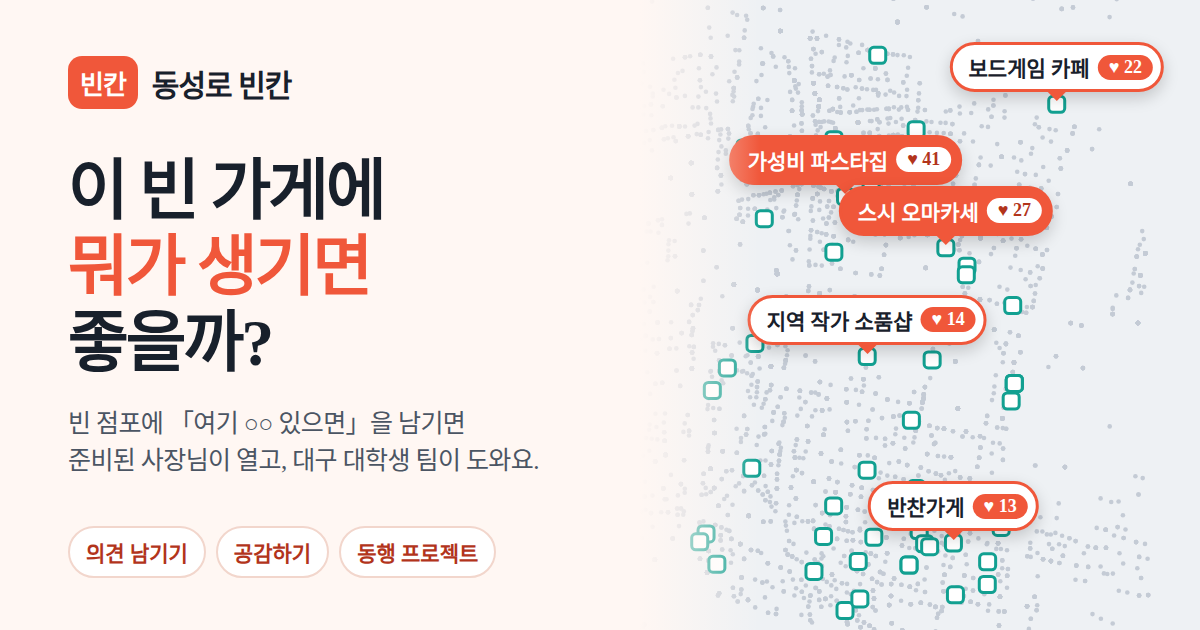
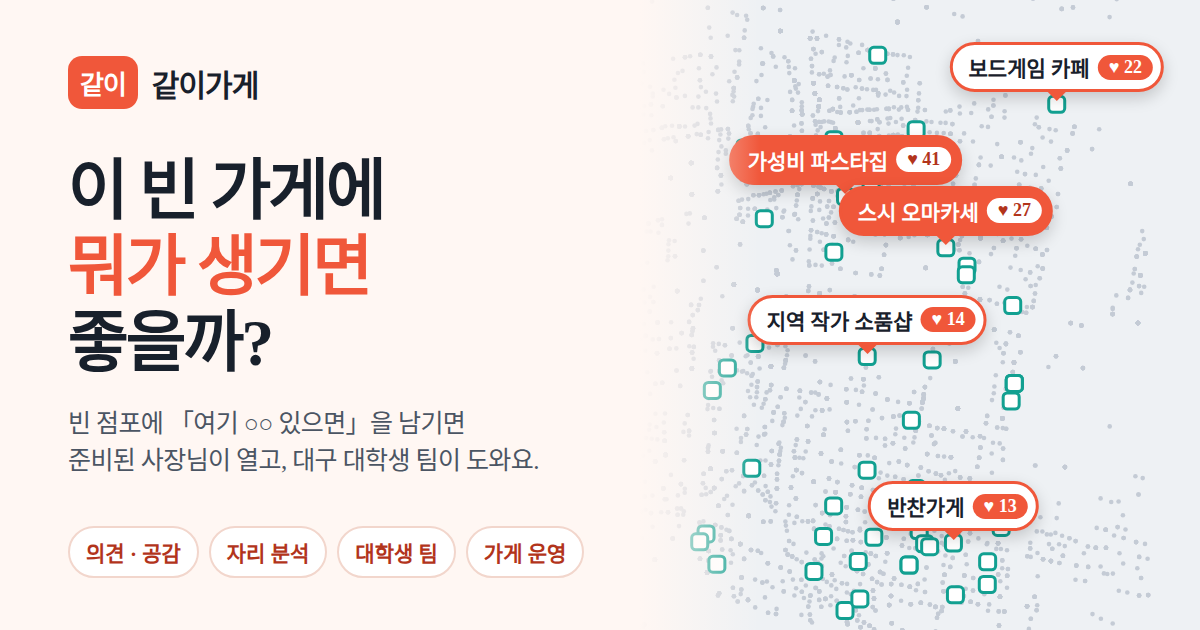
같이가게: 서비스 이름 「동성로 빈칸」 → 「같이가게」(의견에서 개업, 운영까지), 도우미 「같이가게 도우미」, 홈 썸네일 · 공유 미리보기. 「빈칸」은 빈 점포 용어로 유지

Changed region(s): [[0.0925, 0.8143, 0.4933, 0.9349], [0.0617, 0.0905, 0.2467, 0.181]]

diff --git a/public/drafthon/binkan/app.js b/public/drafthon/binkan/app.js
@@ -1,4 +1,4 @@
-// 동성로 빈칸 — 첫 화면(지도) · 빈칸 상세 · 의견 남기기 · 공감 · 로그인 · 회원가입 · 검색 · 입구 · 지원 안내 띠 · 오픈 이벤트
+// 같이가게 — 첫 화면(지도) · 빈칸 상세 · 의견 남기기 · 공감 · 로그인 · 회원가입 · 검색 · 입구 · 지원 안내 띠 · 오픈 이벤트
 // 저장은 이 브라우저(localStorage)에만. 백엔드가 붙으면 store.* 만 API로 바꾸면 된다(청사진 §7 API 표).
 (function () {
   const M = window.MAPDATA, SEED = window.SEED, SUP = window.SUP;
@@ -270,7 +270,7 @@
         <dt>직전 업종</dt><dd>${esc(s.was)} <small>(같은 업종이 다시 들어와도 되는지는 상담에서)</small></dd>
         ${nA ? `<dt>근처 가게 답</dt><dd><b>${nA}곳</b>이 이 빈칸 의견에 답함 <small>(의견은 닫히지 않아요 · 상권 정보로 참고)</small></dd>` : ''}
       </dl>
-      <p class="fine">소진공 상가(상권)정보 ${esc(M.meta.q_now)} 기준 계산. 더 자세한 해석은 오른쪽 아래 빈칸 도우미에게 물어보세요.</p>
+      <p class="fine">소진공 상가(상권)정보 ${esc(M.meta.q_now)} 기준 계산. 더 자세한 해석은 오른쪽 아래 같이가게 도우미에게 물어보세요.</p>
       <button class="cta2" data-act="owner" data-id="${esc(s.id)}">이 자리로 창업 상담 →</button>
     </section>`;
   }
@@ -320,7 +320,7 @@
           <dt>규모</dt><dd>0단계: 빈칸 61곳 중 30곳 이상에 회원 의견이 모이면 → 1단계: 동성로 10곳 [가정] · 학생 40명(4인 × 10팀) · 한 학기 16주.</dd>
           <dt>비용</dt><dd>학생 장학금 월 30만 원 × 4개월 × 40명 = 4,800만 원 [추정]. 사장님 지원금 · 인테리어 · 임대료 일부 · 이벤트는 상권활성화사업 예산과 협의. 사장님 · 시민은 무료.</dd>
           <dt>성과</dt><dd>개업 6개월 영업 유지가 비교군(신청했지만 선정되지 않은 가게)보다 높은지 → 12개월 영업 유지 10곳 중 8곳 이상 [가정] 그리고 비교군보다 높으면 대구로 넓혀요.</dd>
-          <dt>AI가 하는 일</dt><dd>시민 · 사장님 · 학생의 문장을 업종 · 과제 · 전공으로 바꿔 서로 잇는 일(상담 문제 정리 · 과제 초안 · 학생 추천 · 질문 · 의견 묶기 · 답글 초안 · 빈칸 도우미). 숫자 · 거리 · 목록은 사이트가 공공데이터로 계산하고, 선정은 사람(운영단)이 해요.</dd>
+          <dt>AI가 하는 일</dt><dd>시민 · 사장님 · 학생의 문장을 업종 · 과제 · 전공으로 바꿔 서로 잇는 일(상담 문제 정리 · 과제 초안 · 학생 추천 · 질문 · 의견 묶기 · 답글 초안 · 같이가게 도우미). 숫자 · 거리 · 목록은 사이트가 공공데이터로 계산하고, 선정은 사람(운영단)이 해요.</dd>
           <dt>운영단 화면</dt><dd>회원가입 때 「운영단」을 고르면 심사 표 · 추적 표를 볼 수 있어요(본 서비스에서는 초대받은 운영단만).</dd>
         </dl></section>
       <p class="fine">처음 화면의 의견 · 공감 수 · 공고 일부는 서비스 소개를 위해 운영팀이 넣어 둔 것이에요. 운영팀 의견에는 「운영팀」이라고 적혀 있어요.</p>`;
@@ -500,9 +500,9 @@
     const s = SP[w.space], url = SHORT_BASE + (w.seed ? w.id : `${w.space}.${b64(w.title)}.${store.likes(w)}`);
     const place = /^동성로/.test(shortAddr(s)) ? shortAddr(s) : '동성로 ' + shortAddr(s);
     const text = `${place} 빈칸에 「${w.title}」 있으면 좋겠다! 공감 눌러 줘 → ${url}`;
-    lastShare = { title: `「${w.title}」 있으면 좋겠다 — 동성로 빈칸`, text: `${place} 빈칸에 「${w.title}」 있으면 좋겠다! 공감 눌러 줘`, url };
+    lastShare = { title: `「${w.title}」 있으면 좋겠다 — 같이가게`, text: `${place} 빈칸에 「${w.title}」 있으면 좋겠다! 공감 눌러 줘`, url };
     openModal(`<h3>공유 카드</h3>
-      <div class="sharecard"><p class="sk">동성로 빈칸</p><p class="sw">「${esc(w.title)}」</p><p class="sa">📍 ${esc(shortAddr(s))}</p><p class="sl">♥ ${store.likes(w)}${w.seed ? ' · 운영팀 의견' : '명이 공감'}</p></div>
+      <div class="sharecard"><p class="sk">같이가게</p><p class="sw">「${esc(w.title)}」</p><p class="sa">📍 ${esc(shortAddr(s))}</p><p class="sl">♥ ${store.likes(w)}${w.seed ? ' · 운영팀 의견' : '명이 공감'}</p></div>
       <textarea readonly rows="3" id="shareText">${esc(text)}</textarea>
       <div class="sharebtns">${navigator.share ? '<button class="cta" data-act="nshare">공유하기 (카카오톡 등)</button>' : ''}<button class="${navigator.share ? 'cta2' : 'cta'}" data-act="copy">문구 · 링크 복사</button></div>`);
   }

diff --git a/public/drafthon/binkan/chat.js b/public/drafthon/binkan/chat.js
@@ -1,4 +1,4 @@
-// 빈칸 도우미 (챗봇) — 모든 화면 오른쪽 아래. 말로 물으면 맞는 화면으로 데려가고(길 안내), 의견 · 빈칸을 찾고, 지원사업 · 이용 방법을 답한다.
+// 같이가게 도우미 (챗봇) — 모든 화면 오른쪽 아래. 말로 물으면 맞는 화면으로 데려가고(길 안내), 의견 · 빈칸을 찾고, 지원사업 · 이용 방법을 답한다.
 // AI(assist.js · /api/binkan-assist)가 답과 할 일을 고르면 run()이 사이트 데이터로 계산해 채팅 카드로 보여 준다. AI가 안 되면 규칙(understand · answer)으로.
 (function () {
   const A = window.APP, { store, SP, M, SUP, esc, shortAddr } = A;
@@ -6,9 +6,9 @@
   const log = [];   // { who: 'bot' | 'me', html }
 
   document.body.insertAdjacentHTML('beforeend', `
-    <button class="chatfab" id="chatFab" aria-label="빈칸 도우미 열기"><span class="cf-i">💬</span><span class="cf-t">빈칸 도우미</span></button>
-    <section class="chatbox" id="chatBox" hidden role="dialog" aria-label="빈칸 도우미">
-      <header><b>빈칸 도우미</b><span class="caimode" id="chatMode"></span><button class="cx" data-c="close" aria-label="닫기">×</button></header>
+    <button class="chatfab" id="chatFab" aria-label="같이가게 도우미 열기"><span class="cf-i">💬</span><span class="cf-t">같이가게 도우미</span></button>
+    <section class="chatbox" id="chatBox" hidden role="dialog" aria-label="같이가게 도우미">
+      <header><b>같이가게 도우미</b><span class="caimode" id="chatMode"></span><button class="cx" data-c="close" aria-label="닫기">×</button></header>
       <div class="clog" id="chatLog" aria-live="polite"></div>
       <div class="cchips" id="chatChips"></div>
       <form class="cform" id="chatForm"><input id="chatIn" type="text" placeholder="편하게 물어보세요" autocomplete="off" aria-label="도우미에게 묻기"><button type="button" class="cmic" id="chatMic" aria-label="말로 묻기" hidden>🎤</button><button class="csend">보내기</button></form>
@@ -98,7 +98,7 @@
     '상권 변화 숫자는 어디서 나와요?': '빈칸을 찾은 것과 같은 <b>소진공 상가(상권)정보 분기 파일</b>(2026년 2분기 · 3분기)에서, 가게 100m 안 같은 업종(소분류) 업소를 분기마다 직접 세요. AI는 그 숫자를 한 줄로 풀기만 하고 숫자를 만들지 않아요.',
     '의견 보고 온 손님은 어떻게 세요?': '시민이 알림에서 연 「가게에서 이 화면 보여 주기」를 가게에서 보여 주면, 사장님이 그 화면의 <b>[사장님 확인]</b>에 「내 가게」 위쪽의 <b>오늘 손님 확인 번호</b>를 넣어요(확인된 손님으로 따로 셈). 바쁠 땐 답한 메뉴 카드의 [＋]로 세요. 화면을 보여 준 손님만 세므로 실제와 다를 수 있어요 — 운영단은 「보여 주기 연 회원」 수와 같이 봐요.',
     '내 가게 쓰는 데 돈 들어요?': '동행 프로젝트에 선정된 가게와, 신청했지만 선정되지 않아 함께 살펴보는 가게는 <b>이용료가 없어요</b> [제안]. AI를 부르는 비용은 운영단 예산으로 잡는 방안이고, 학기 뒤 누가 낼지는 아직 정하는 중이에요 [확인 필요].',
-    '누가 쓰는 법을 알려 줘요?': '선정 가게는 <b>학생 팀이 한 학기 같이 쓰면서</b> 사용법 한 장을 남겨요. 함께 살펴보는 가게는 <b>운영단이 첫 설정을 한 번 같이</b> 해요 [제안]. 막히면 저(빈칸 도우미)에게 물어보시거나 「내 가게」 위쪽 「사용법 한 장」을 보세요.',
+    '누가 쓰는 법을 알려 줘요?': '선정 가게는 <b>학생 팀이 한 학기 같이 쓰면서</b> 사용법 한 장을 남겨요. 함께 살펴보는 가게는 <b>운영단이 첫 설정을 한 번 같이</b> 해요 [제안]. 막히면 저(같이가게 도우미)에게 물어보시거나 「내 가게」 위쪽 「사용법 한 장」을 보세요.',
     '장학금 · 학점은 어떻게 받아요?': '지역 대학 <b>연계 교과</b>로 전공 학점을 받고(대구 앵커사업 · 옛 RISE 연계), 참여 학생 장학금을 지원해요. 장학금은 월 30만 원 [추정], 학점 수는 대학별로 정해요 [가정]. 학기 끝에 <b>경력 카드</b>가 남아요.' };
 
   // ---------------- 실시간 AI (전용 창구 /api/binkan-assist: 지시문 서버 고정, { reply, do } JSON만 받음) ----------------

diff --git a/public/drafthon/binkan/mystore.js b/public/drafthon/binkan/mystore.js
@@ -433,7 +433,7 @@
     if (noRecord(s) && !(mo && mo.alive)) L.push(`<div class="mban warn"><b>한 달 넘게 기록이 없어요. 지금 영업 중이세요?</b><span><button class="cta2 sm" data-m="alive" data-v="영업 중이에요">영업 중이에요</button><button class="cta2 sm" data-m="alive" data-v="잠시 쉬고 있어요">잠시 쉬고 있어요</button><button class="cta2 sm" data-m="alive" data-v="문 닫았어요">문 닫았어요</button></span></div>`);
     if (appOf(s) && s.share.band && !(mo && mo.band)) L.push(`<div class="mban"><b>이번 달 매출 구간을 아직 안 골랐어요</b> <small>월 1회 · 운영단에는 구간만 가요</small><button class="cta2 sm" data-m="v" data-v="k4">고르기</button></div>`);
     if (ui.msg) L.push(`<div class="mban ok">${ui.msg}</div>`);
-    L.push(`<p class="mhint">이용료 없음(동행 프로젝트 선정 · 함께 살펴보는 가게, [제안]) · 첫 설정은 운영단이 같이 해요 · 막히면 오른쪽 아래 빈칸 도우미에게 · <button class="link" data-m="guide">사용법 한 장</button></p>`);
+    L.push(`<p class="mhint">이용료 없음(동행 프로젝트 선정 · 함께 살펴보는 가게, [제안]) · 첫 설정은 운영단이 같이 해요 · 막히면 오른쪽 아래 같이가게 도우미에게 · <button class="link" data-m="guide">사용법 한 장</button></p>`);
     return L.join('');
   }
 
@@ -723,7 +723,7 @@
   // 과제 1-2 ② 「도입하고 계속 쓰게」: 쓰는 법 · 비용 · 교육 · 막힐 때 (설계서 §8)
   const helpCard = s => `<section class="mhelp"><div><b>쓰는 법</b><ol><li>근처 의견에 「우리 가게에서 해 볼게요」라고 답해요</li><li>알림을 받은 손님이 가게에서 화면을 보여 주면 확인해요</li><li>답한 메뉴를 하루 한 줄 적어요 — 분기마다 상권 변화도 와요</li></ol></div>
       <div><b>비용 · 교육</b><p>동행 프로젝트 선정 가게와 함께 살펴보는 가게는 무료 [제안]. AI 비용은 운영단 예산으로 [확인 필요]. 선정 가게는 학생 팀이 한 학기 같이 쓰고 사용법 한 장을 남겨요.</p></div>
-      <div><b>막히면</b><p>오른쪽 아래 빈칸 도우미에게 물어보세요. 기록이 한 달 넘게 끊기면 「지금 영업 중이세요?」를 먼저 여쭤봐요. <button class="link" data-m="guide">사용법 한 장</button></p></div></section>`;
+      <div><b>막히면</b><p>오른쪽 아래 같이가게 도우미에게 물어보세요. 기록이 한 달 넘게 끊기면 「지금 영업 중이세요?」를 먼저 여쭤봐요. <button class="link" data-m="guide">사용법 한 장</button></p></div></section>`;
   const guideHTML = () => `<div class="guide"><h3>「내 가게」 사용법 한 장</h3><ol>
       <li><b>가게 설정</b> — 가게 이름 · 업종 · 메뉴 3개 이상 · 지도에서 위치. 가격 · 행사와 첫 방문 혜택은 여기에 적은 것만 답글에 쓸 수 있어요.</li>
       <li><b>근처 의견에 답하기</b> — 가게 150m(없으면 300m) 안 빈칸 의견을 보고 [답하기]. AI가 「채울 수 있나 · 메뉴 · 답글」 초안을 내면 고쳐서 올려요. 연락처 · 링크 · 남 깎아내리는 말은 안 올라가요.</li>
@@ -1005,7 +1005,7 @@
     if (u && u.id !== a.uid && !db.got('shows', u.id, aid)) { db.mark('shows', u.id, aid, Date.now()); a.shows = (a.shows || 0) + 1; db.putAnswer(a); }
     const done = u && db.got('visits', u.id, aid + ':' + today());
     return `<div class="showcard${end ? ' end' : ''}">
-      ${end ? '<p class="send">이 메뉴는 끝났어요</p>' : '<p class="sk">동성로 빈칸 · 의견 보고 왔어요</p>'}
+      ${end ? '<p class="send">이 메뉴는 끝났어요</p>' : '<p class="sk">같이가게 · 의견 보고 왔어요</p>'}
       <p class="ss">${esc(a.store)}</p><p class="si">${esc(a.item)} · ${esc(s.id ? placeOf(s) : (a.pt && a.pt.label) || '')}</p>
       <p class="sm">${esc(a.menu)}</p>
       <p class="sr">「${esc(a.reply)}」</p>

diff --git a/api/binkan-share.js b/api/binkan-share.js
@@ -1,4 +1,4 @@
-// 동성로 빈칸 의견 공유 주소: /drafthon/binkan/s/V005?w=가게&a=주소&n=공감수 → 미리보기(og) 태그를 단 페이지를 주고 사이트로 넘긴다.
+// 같이가게 의견 공유 주소: /drafthon/binkan/s/V005?w=가게&a=주소&n=공감수 → 미리보기(og) 태그를 단 페이지를 주고 사이트로 넘긴다.
 import SPACES from './_binkan_spaces.json' with { type: 'json' };
 import SEEDW from './_binkan_seed.json' with { type: 'json' };
 const SITE = 'https://parkmiyeong.com';
@@ -14,7 +14,7 @@ export default function handler(req, res) {
   const w = cut(q.w, 24), a = cut(q.a, 28) || (s && SPACES[s]) || '', n = Math.max(0, Math.min(99999, parseInt(q.n, 10) || 0));
   const target = SITE + '/drafthon/binkan/' + (s ? '#s=' + s : '');
   const self = c ? SITE + '/b/' + c : SITE + '/drafthon/binkan/s/' + s + '?' + new URLSearchParams({ w, n: String(n) }).toString();
-  const title = w ? `「${w}」 있으면 좋겠다 — 동성로 빈칸` : '동성로 빈칸 — 이 빈 가게에 뭐가 생기면 좋을까?';
+  const title = w ? `「${w}」 있으면 좋겠다 — 같이가게` : '같이가게 — 의견에서 개업, 운영까지';
   const place = /^동성로/.test(a) ? a : '동성로 ' + a;
   const op = /^w\d{1,3}$/.test(c);   // 처음부터 있던 의견 = 운영팀이 넣은 의견(공감 수도 운영팀이 넣은 것)
   const desc = w ? `${place} 빈칸 · 공감 ${n}${op ? ' · 운영팀 의견' : ''}. 나도 공감하고, 원하는 가게를 남겨 보세요.` : '동성로 빈 점포에 「여기 ○○ 있으면」을 남기면, 준비된 사장님이 가게를 열고 대구 대학생 팀이 개업 준비를 도와요.';
@@ -25,11 +25,11 @@ export default function handler(req, res) {
 <title>${esc(title)}</title>
 <meta name="robots" content="noindex">
 <meta name="description" content="${esc(desc)}">
-<meta property="og:type" content="website"><meta property="og:site_name" content="동성로 빈칸">
+<meta property="og:type" content="website"><meta property="og:site_name" content="같이가게">
 <meta property="og:title" content="${esc(title)}"><meta property="og:description" content="${esc(desc)}">
 <meta property="og:image" content="${esc(img)}"><meta property="og:image:width" content="1200"><meta property="og:image:height" content="630">
 <meta property="og:url" content="${esc(self)}">
 <meta name="twitter:card" content="summary_large_image">
 <meta http-equiv="refresh" content="0;url=${esc(target)}">
-</head><body><script>location.replace(${JSON.stringify(target)})</script><a href="${esc(target)}">동성로 빈칸으로 가기</a></body></html>`);
+</head><body><script>location.replace(${JSON.stringify(target)})</script><a href="${esc(target)}">같이가게로 가기</a></body></html>`);
 }

diff --git a/public/drafthon/binkan/assist.js b/public/drafthon/binkan/assist.js
@@ -1,4 +1,4 @@
-// 빈칸 도우미의 AI 부분 (대화만으로 사이트를 쓰게): 사이트 지식 + 지금 화면 맥락 → AI가 「답」과 「할 일」을 고른다.
+// 같이가게 도우미의 AI 부분 (대화만으로 사이트를 쓰게): 사이트 지식 + 지금 화면 맥락 → AI가 「답」과 「할 일」을 고른다.
 // 할 일은 사이트(chat.js)가 계산 · 실행해서 채팅 카드로 보여 준다. 숫자 · 목록은 AI가 아니라 사이트 데이터에서 나온다.
 // 브라우저(chat.js) · 서버 창구(api/binkan-assist → _binkan_assist.cjs 사본) · 터미널 시험(tools/test_assist.js)이 같이 쓴다.
 (function (root) {
@@ -7,7 +7,7 @@
   const GROUPS = ['경영 · 기획', '마케팅 · 콘텐츠', '디자인 · 공간', '데이터 · IT', '식품 · 메뉴'];
   const CATS = ['음식점', '카페 · 디저트', '술집', '공부 · 작업', '놀거리', '소품 · 옷', '생활 편의', '기타'];
 
-  const SYSTEM = `너는 「동성로 빈칸」 사이트의 대화 도우미다. 사용자는 화면을 몰라도 너와 대화만으로 사이트를 쓸 수 있어야 한다.
+  const SYSTEM = `너는 「같이가게」 사이트의 대화 도우미다. 사용자는 화면을 몰라도 너와 대화만으로 사이트를 쓸 수 있어야 한다.
 
 [사이트 지식 — 이 안의 사실만 말한다. 「시연」 「데모」 「예시 데이터」 「바로 통과」 같은 말은 쓰지 않는다]
 - 빈칸: 대구 동성로의 1층 공실 후보 61곳. 소상공인시장진흥공단 상가(상권)정보 2026년 2분기 목록에 있다가 3분기 목록에서 사라진 업소 가운데, 1층이고 같은 층에 새 업소가 들어오지 않은 자리다. 범위는 중구 성내1동 + 도로명 「동성로」. 실제 공실인지는 현장 확인이 필요하다. 본 사업에서는 시가 상가 매물 플랫폼과 공실 정보를 연동하는 방안을 제안한다.

diff --git a/public/drafthon/binkan/index.html b/public/drafthon/binkan/index.html
@@ -5,11 +5,11 @@
 <base href="/drafthon/binkan/">
 <meta name="robots" content="noindex">
 <meta name="viewport" content="width=device-width, initial-scale=1">
-<title>동성로 빈칸 — 이 빈 가게에 뭐가 생기면 좋을까?</title>
+<title>같이가게 — 의견에서 개업, 운영까지</title>
 <meta name="description" content="동성로 빈 점포에 「여기 ○○ 있으면」을 남기면, 준비된 사장님이 가게를 열고 대구 대학생 팀이 개업 준비를 돕습니다.">
 <meta property="og:type" content="website">
-<meta property="og:site_name" content="동성로 빈칸">
-<meta property="og:title" content="동성로 빈칸 — 이 빈 가게에 뭐가 생기면 좋을까?">
+<meta property="og:site_name" content="같이가게">
+<meta property="og:title" content="같이가게 — 의견에서 개업, 운영까지">
 <meta property="og:description" content="동성로 빈 점포에 「여기 ○○ 있으면」을 남기면, 준비된 사장님이 가게를 열고 대구 대학생 팀이 개업 준비를 도와요.">
 <meta property="og:image" content="https://parkmiyeong.com/drafthon/binkan/og/home.png">
 <meta property="og:image:width" content="1200"><meta property="og:image:height" content="630">
@@ -19,7 +19,7 @@
 </head>
 <body>
 <header class="top">
-  <a class="logo" href="#" data-act="home"><span class="mark">빈칸</span><span class="name">동성로 빈칸</span></a>
+  <a class="logo" href="#" data-act="home"><span class="mark">같이</span><span class="name">같이가게</span></a>
   <form class="search" id="search" role="search">
     <input id="q" type="search" placeholder="가게 · 업종 · 거리 찾기 (예: 파스타)" autocomplete="off" aria-label="검색">
     <button type="submit">찾기</button>

diff --git a/api/binkan-ogimg.js b/api/binkan-ogimg.js
@@ -1,4 +1,4 @@
-// 동성로 빈칸 의견 공유 썸네일(1200×630 PNG). /api/binkan-ogimg?t=가게&a=주소&n=공감수
+// 같이가게 의견 공유 썸네일(1200×630 PNG). /api/binkan-ogimg?t=가게&a=주소&n=공감수
 // 카카오톡 · 메신저 링크 미리보기용. satori(화면 → SVG) + resvg(SVG → PNG). 글꼴은 사이트에 올린 Pretendard를 읽어 쓴다.
 import satori from 'satori';
 import { Resvg } from '@resvg/resvg-js';
@@ -20,7 +20,7 @@ export default async function handler(req, res) {
     h('div', { position: 'absolute', left: '72px', top: '58px', width: '1056px', height: '514px', flexDirection: 'column' },
       h('div', { alignItems: 'center' },
         h('div', { background: '#fff', color: ORANGE, fontWeight: 800, fontSize: '28px', padding: '8px 14px', borderRadius: '14px' }, '빈칸'),
-        h('div', { marginLeft: '14px', fontSize: '30px', fontWeight: 800 }, '동성로 빈칸')),
+        h('div', { marginLeft: '14px', fontSize: '30px', fontWeight: 800 }, '같이가게')),
       h('div', { marginTop: '54px', fontSize: '36px', fontWeight: 600, opacity: 0.92 }, '이 빈칸에'),
       h('div', { marginTop: '6px', fontSize: size + 'px', fontWeight: 800, lineHeight: 1.12, maxWidth: '900px', letterSpacing: '-2px' }, '「' + t + '」'),
       h('div', { marginTop: '10px', fontSize: '44px', fontWeight: 800, letterSpacing: '-1px' }, '있으면 좋겠다!'),

diff --git a/public/drafthon/binkan/student.js b/public/drafthon/binkan/student.js
@@ -165,7 +165,7 @@
   function s5() {
     const s = S(), tp = teamPost(), p = tp || P(s.sel), r = (tp ? p.roles[slotOf()] : null) || P(s.sel).roles[s.role], pf = s.prof;
     return `<section class="ccard">
-        <p class="ck">동성로 빈칸 · 동행 프로젝트 1기 · 직무 경력 카드</p>
+        <p class="ck">같이가게 · 동행 프로젝트 1기 · 직무 경력 카드</p>
         <h2>${esc(r.t)}</h2>
         <p class="cw">${esc(p.item)} @ ${esc(where(p))} · 한 학기 16주 · 4인 팀 + 지도교수</p>
         <dl><dt>이름</dt><dd>${esc(st.user ? st.user.name : '')} · ${esc(pf.school)} ${esc(pf.major)}</dd>
